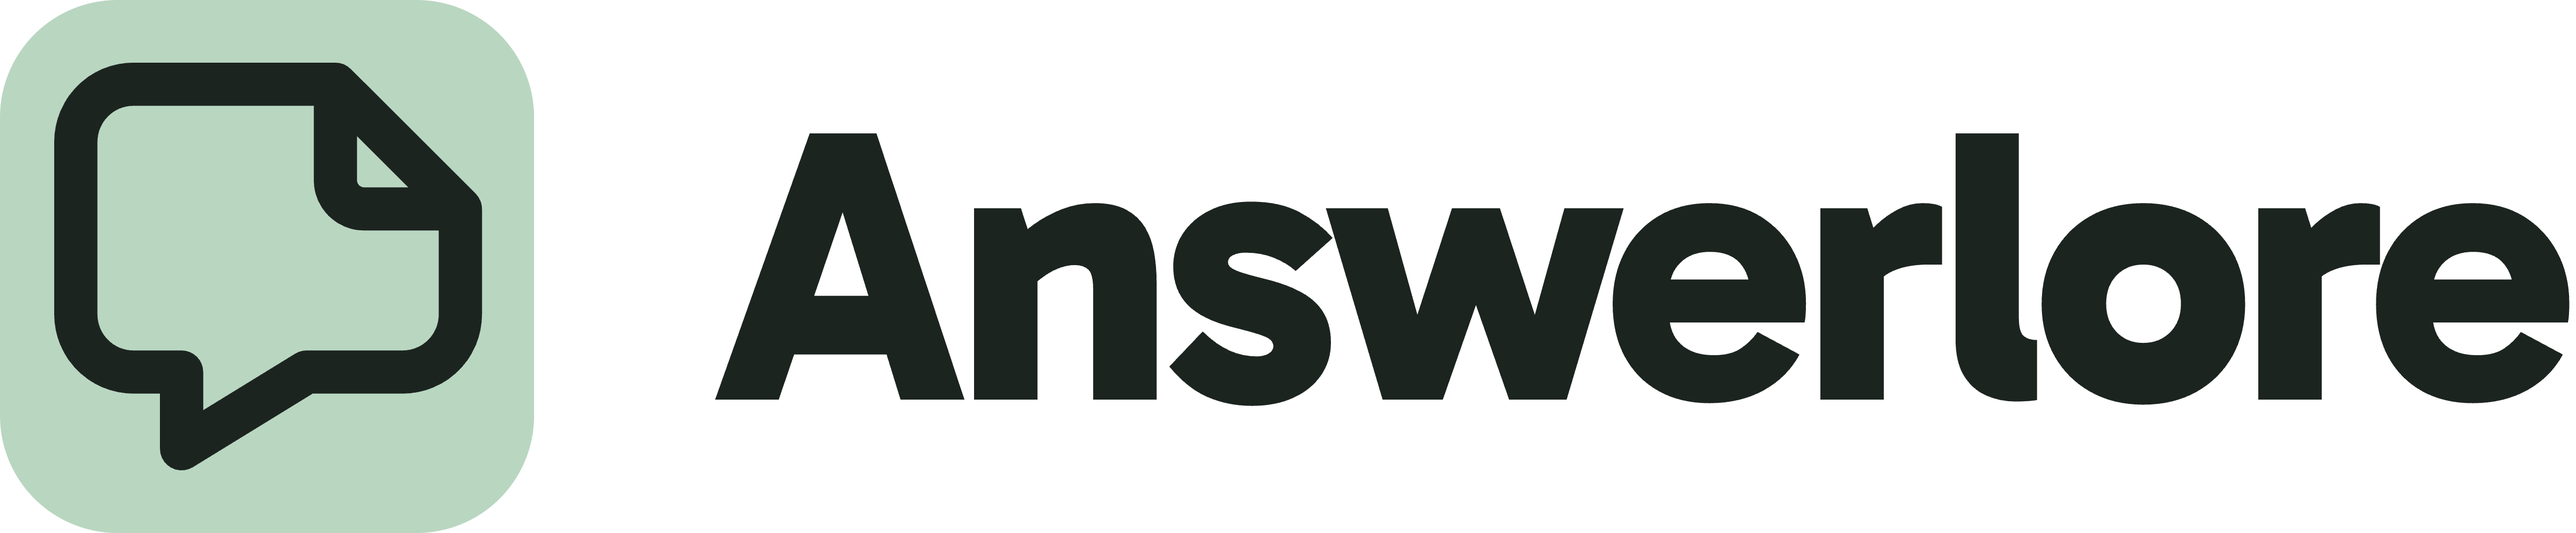
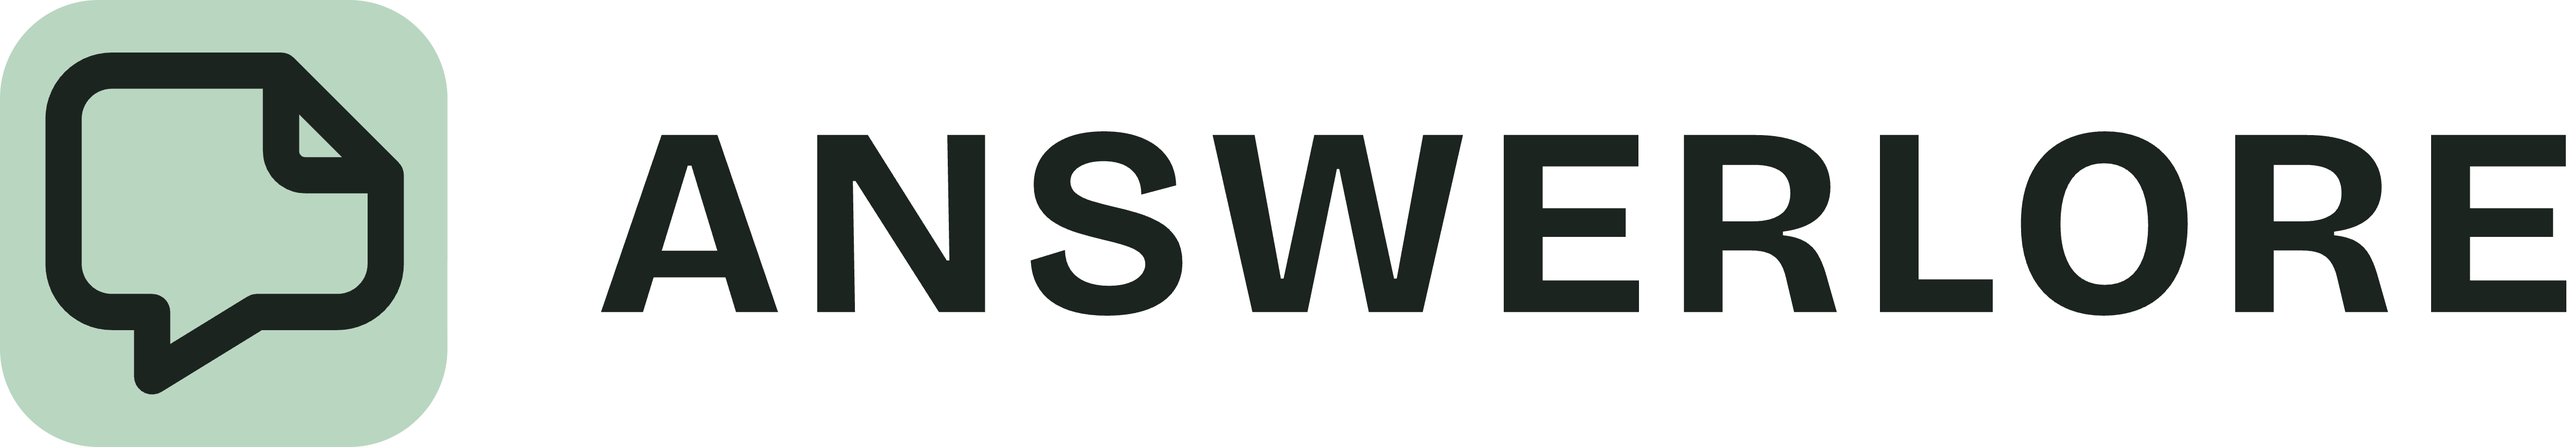
Wordmark is the app's: Bricolage Grotesque 700 uppercase
The site nav and footer wordmarks and both brand-kit lockups now match
the web app's wordmark exactly: ANSWERLORE in Bricolage Grotesque 700
with +0.06em tracking, outlined in the SVGs. Gabarito stays for
everything else on the site.

Claude-Session: https://claude.ai/code/session_01E6LckfF3miguQEZG5L7dzD

diff --git a/dealers.html b/dealers.html
@@ -17,7 +17,7 @@
 <meta name="twitter:card" content="summary">
 <link rel="preconnect" href="https://fonts.googleapis.com">
 <link rel="preconnect" href="https://fonts.gstatic.com" crossorigin>
-<link href="https://fonts.googleapis.com/css2?family=Gabarito:wght@500;600;700;800;900&family=IBM+Plex+Sans:wght@400;500;600&family=IBM+Plex+Mono:wght@400;500&display=swap" rel="stylesheet">
+<link href="https://fonts.googleapis.com/css2?family=Gabarito:wght@500;600;700;800;900&family=Bricolage+Grotesque:opsz,wght@12..96,700&family=IBM+Plex+Sans:wght@400;500;600&family=IBM+Plex+Mono:wght@400;500&display=swap" rel="stylesheet">
 <link rel="stylesheet" href="/assets/site.css">
 </head>
 <body>

diff --git a/how-it-works.html b/how-it-works.html
@@ -17,7 +17,7 @@
 <meta name="twitter:card" content="summary">
 <link rel="preconnect" href="https://fonts.googleapis.com">
 <link rel="preconnect" href="https://fonts.gstatic.com" crossorigin>
-<link href="https://fonts.googleapis.com/css2?family=Gabarito:wght@500;600;700;800;900&family=IBM+Plex+Sans:wght@400;500;600&family=IBM+Plex+Mono:wght@400;500&display=swap" rel="stylesheet">
+<link href="https://fonts.googleapis.com/css2?family=Gabarito:wght@500;600;700;800;900&family=Bricolage+Grotesque:opsz,wght@12..96,700&family=IBM+Plex+Sans:wght@400;500;600&family=IBM+Plex+Mono:wght@400;500&display=swap" rel="stylesheet">
 <link rel="stylesheet" href="/assets/site.css">
 </head>
 <body>

diff --git a/index.html b/index.html
@@ -17,7 +17,7 @@
 <meta name="twitter:card" content="summary">
 <link rel="preconnect" href="https://fonts.googleapis.com">
 <link rel="preconnect" href="https://fonts.gstatic.com" crossorigin>
-<link href="https://fonts.googleapis.com/css2?family=Gabarito:wght@500;600;700;800;900&family=IBM+Plex+Sans:wght@400;500;600&family=IBM+Plex+Mono:wght@400;500&display=swap" rel="stylesheet">
+<link href="https://fonts.googleapis.com/css2?family=Gabarito:wght@500;600;700;800;900&family=Bricolage+Grotesque:opsz,wght@12..96,700&family=IBM+Plex+Sans:wght@400;500;600&family=IBM+Plex+Mono:wght@400;500&display=swap" rel="stylesheet">
 <link rel="stylesheet" href="/assets/site.css">
 </head>
 <body>

diff --git a/knowledge-map-example.html b/knowledge-map-example.html
@@ -17,7 +17,7 @@
 <meta name="twitter:card" content="summary">
 <link rel="preconnect" href="https://fonts.googleapis.com">
 <link rel="preconnect" href="https://fonts.gstatic.com" crossorigin>
-<link href="https://fonts.googleapis.com/css2?family=Gabarito:wght@500;600;700;800;900&family=IBM+Plex+Sans:wght@400;500;600&family=IBM+Plex+Mono:wght@400;500&display=swap" rel="stylesheet">
+<link href="https://fonts.googleapis.com/css2?family=Gabarito:wght@500;600;700;800;900&family=Bricolage+Grotesque:opsz,wght@12..96,700&family=IBM+Plex+Sans:wght@400;500;600&family=IBM+Plex+Mono:wght@400;500&display=swap" rel="stylesheet">
 <link rel="stylesheet" href="/assets/site.css">
 </head>
 <body>

diff --git a/owners.html b/owners.html
@@ -17,7 +17,7 @@
 <meta name="twitter:card" content="summary">
 <link rel="preconnect" href="https://fonts.googleapis.com">
 <link rel="preconnect" href="https://fonts.gstatic.com" crossorigin>
-<link href="https://fonts.googleapis.com/css2?family=Gabarito:wght@500;600;700;800;900&family=IBM+Plex+Sans:wght@400;500;600&family=IBM+Plex+Mono:wght@400;500&display=swap" rel="stylesheet">
+<link href="https://fonts.googleapis.com/css2?family=Gabarito:wght@500;600;700;800;900&family=Bricolage+Grotesque:opsz,wght@12..96,700&family=IBM+Plex+Sans:wght@400;500;600&family=IBM+Plex+Mono:wght@400;500&display=swap" rel="stylesheet">
 <link rel="stylesheet" href="/assets/site.css">
 </head>
 <body>

diff --git a/pricing.html b/pricing.html
@@ -17,7 +17,7 @@
 <meta name="twitter:card" content="summary">
 <link rel="preconnect" href="https://fonts.googleapis.com">
 <link rel="preconnect" href="https://fonts.gstatic.com" crossorigin>
-<link href="https://fonts.googleapis.com/css2?family=Gabarito:wght@500;600;700;800;900&family=IBM+Plex+Sans:wght@400;500;600&family=IBM+Plex+Mono:wght@400;500&display=swap" rel="stylesheet">
+<link href="https://fonts.googleapis.com/css2?family=Gabarito:wght@500;600;700;800;900&family=Bricolage+Grotesque:opsz,wght@12..96,700&family=IBM+Plex+Sans:wght@400;500;600&family=IBM+Plex+Mono:wght@400;500&display=swap" rel="stylesheet">
 <link rel="stylesheet" href="/assets/site.css">
 </head>
 <body>

diff --git a/resources.html b/resources.html
@@ -17,7 +17,7 @@
 <meta name="twitter:card" content="summary">
 <link rel="preconnect" href="https://fonts.googleapis.com">
 <link rel="preconnect" href="https://fonts.gstatic.com" crossorigin>
-<link href="https://fonts.googleapis.com/css2?family=Gabarito:wght@500;600;700;800;900&family=IBM+Plex+Sans:wght@400;500;600&family=IBM+Plex+Mono:wght@400;500&display=swap" rel="stylesheet">
+<link href="https://fonts.googleapis.com/css2?family=Gabarito:wght@500;600;700;800;900&family=Bricolage+Grotesque:opsz,wght@12..96,700&family=IBM+Plex+Sans:wght@400;500;600&family=IBM+Plex+Mono:wght@400;500&display=swap" rel="stylesheet">
 <link rel="stylesheet" href="/assets/site.css">
 </head>
 <body>

diff --git a/service.html b/service.html
@@ -17,7 +17,7 @@
 <meta name="twitter:card" content="summary">
 <link rel="preconnect" href="https://fonts.googleapis.com">
 <link rel="preconnect" href="https://fonts.gstatic.com" crossorigin>
-<link href="https://fonts.googleapis.com/css2?family=Gabarito:wght@500;600;700;800;900&family=IBM+Plex+Sans:wght@400;500;600&family=IBM+Plex+Mono:wght@400;500&display=swap" rel="stylesheet">
+<link href="https://fonts.googleapis.com/css2?family=Gabarito:wght@500;600;700;800;900&family=Bricolage+Grotesque:opsz,wght@12..96,700&family=IBM+Plex+Sans:wght@400;500;600&family=IBM+Plex+Mono:wght@400;500&display=swap" rel="stylesheet">
 <link rel="stylesheet" href="/assets/site.css">
 </head>
 <body>

diff --git a/start.html b/start.html
@@ -17,7 +17,7 @@
 <meta name="twitter:card" content="summary">
 <link rel="preconnect" href="https://fonts.googleapis.com">
 <link rel="preconnect" href="https://fonts.gstatic.com" crossorigin>
-<link href="https://fonts.googleapis.com/css2?family=Gabarito:wght@500;600;700;800;900&family=IBM+Plex+Sans:wght@400;500;600&family=IBM+Plex+Mono:wght@400;500&display=swap" rel="stylesheet">
+<link href="https://fonts.googleapis.com/css2?family=Gabarito:wght@500;600;700;800;900&family=Bricolage+Grotesque:opsz,wght@12..96,700&family=IBM+Plex+Sans:wght@400;500;600&family=IBM+Plex+Mono:wght@400;500&display=swap" rel="stylesheet">
 <link rel="stylesheet" href="/assets/site.css">
 </head>
 <body>

diff --git a/walkthrough.html b/walkthrough.html
@@ -17,7 +17,7 @@
 <meta name="twitter:card" content="summary">
 <link rel="preconnect" href="https://fonts.googleapis.com">
 <link rel="preconnect" href="https://fonts.gstatic.com" crossorigin>
-<link href="https://fonts.googleapis.com/css2?family=Gabarito:wght@500;600;700;800;900&family=IBM+Plex+Sans:wght@400;500;600&family=IBM+Plex+Mono:wght@400;500&display=swap" rel="stylesheet">
+<link href="https://fonts.googleapis.com/css2?family=Gabarito:wght@500;600;700;800;900&family=Bricolage+Grotesque:opsz,wght@12..96,700&family=IBM+Plex+Sans:wght@400;500;600&family=IBM+Plex+Mono:wght@400;500&display=swap" rel="stylesheet">
 <link rel="stylesheet" href="/assets/site.css">
 </head>
 <body>

diff --git a/why-it-refuses.html b/why-it-refuses.html
@@ -17,7 +17,7 @@
 <meta name="twitter:card" content="summary">
 <link rel="preconnect" href="https://fonts.googleapis.com">
 <link rel="preconnect" href="https://fonts.gstatic.com" crossorigin>
-<link href="https://fonts.googleapis.com/css2?family=Gabarito:wght@500;600;700;800;900&family=IBM+Plex+Sans:wght@400;500;600&family=IBM+Plex+Mono:wght@400;500&display=swap" rel="stylesheet">
+<link href="https://fonts.googleapis.com/css2?family=Gabarito:wght@500;600;700;800;900&family=Bricolage+Grotesque:opsz,wght@12..96,700&family=IBM+Plex+Sans:wght@400;500;600&family=IBM+Plex+Mono:wght@400;500&display=swap" rel="stylesheet">
 <link rel="stylesheet" href="/assets/site.css">
 </head>
 <body>

diff --git a/your-data.html b/your-data.html
@@ -17,7 +17,7 @@
 <meta name="twitter:card" content="summary">
 <link rel="preconnect" href="https://fonts.googleapis.com">
 <link rel="preconnect" href="https://fonts.gstatic.com" crossorigin>
-<link href="https://fonts.googleapis.com/css2?family=Gabarito:wght@500;600;700;800;900&family=IBM+Plex+Sans:wght@400;500;600&family=IBM+Plex+Mono:wght@400;500&display=swap" rel="stylesheet">
+<link href="https://fonts.googleapis.com/css2?family=Gabarito:wght@500;600;700;800;900&family=Bricolage+Grotesque:opsz,wght@12..96,700&family=IBM+Plex+Sans:wght@400;500;600&family=IBM+Plex+Mono:wght@400;500&display=swap" rel="stylesheet">
 <link rel="stylesheet" href="/assets/site.css">
 </head>
 <body>
